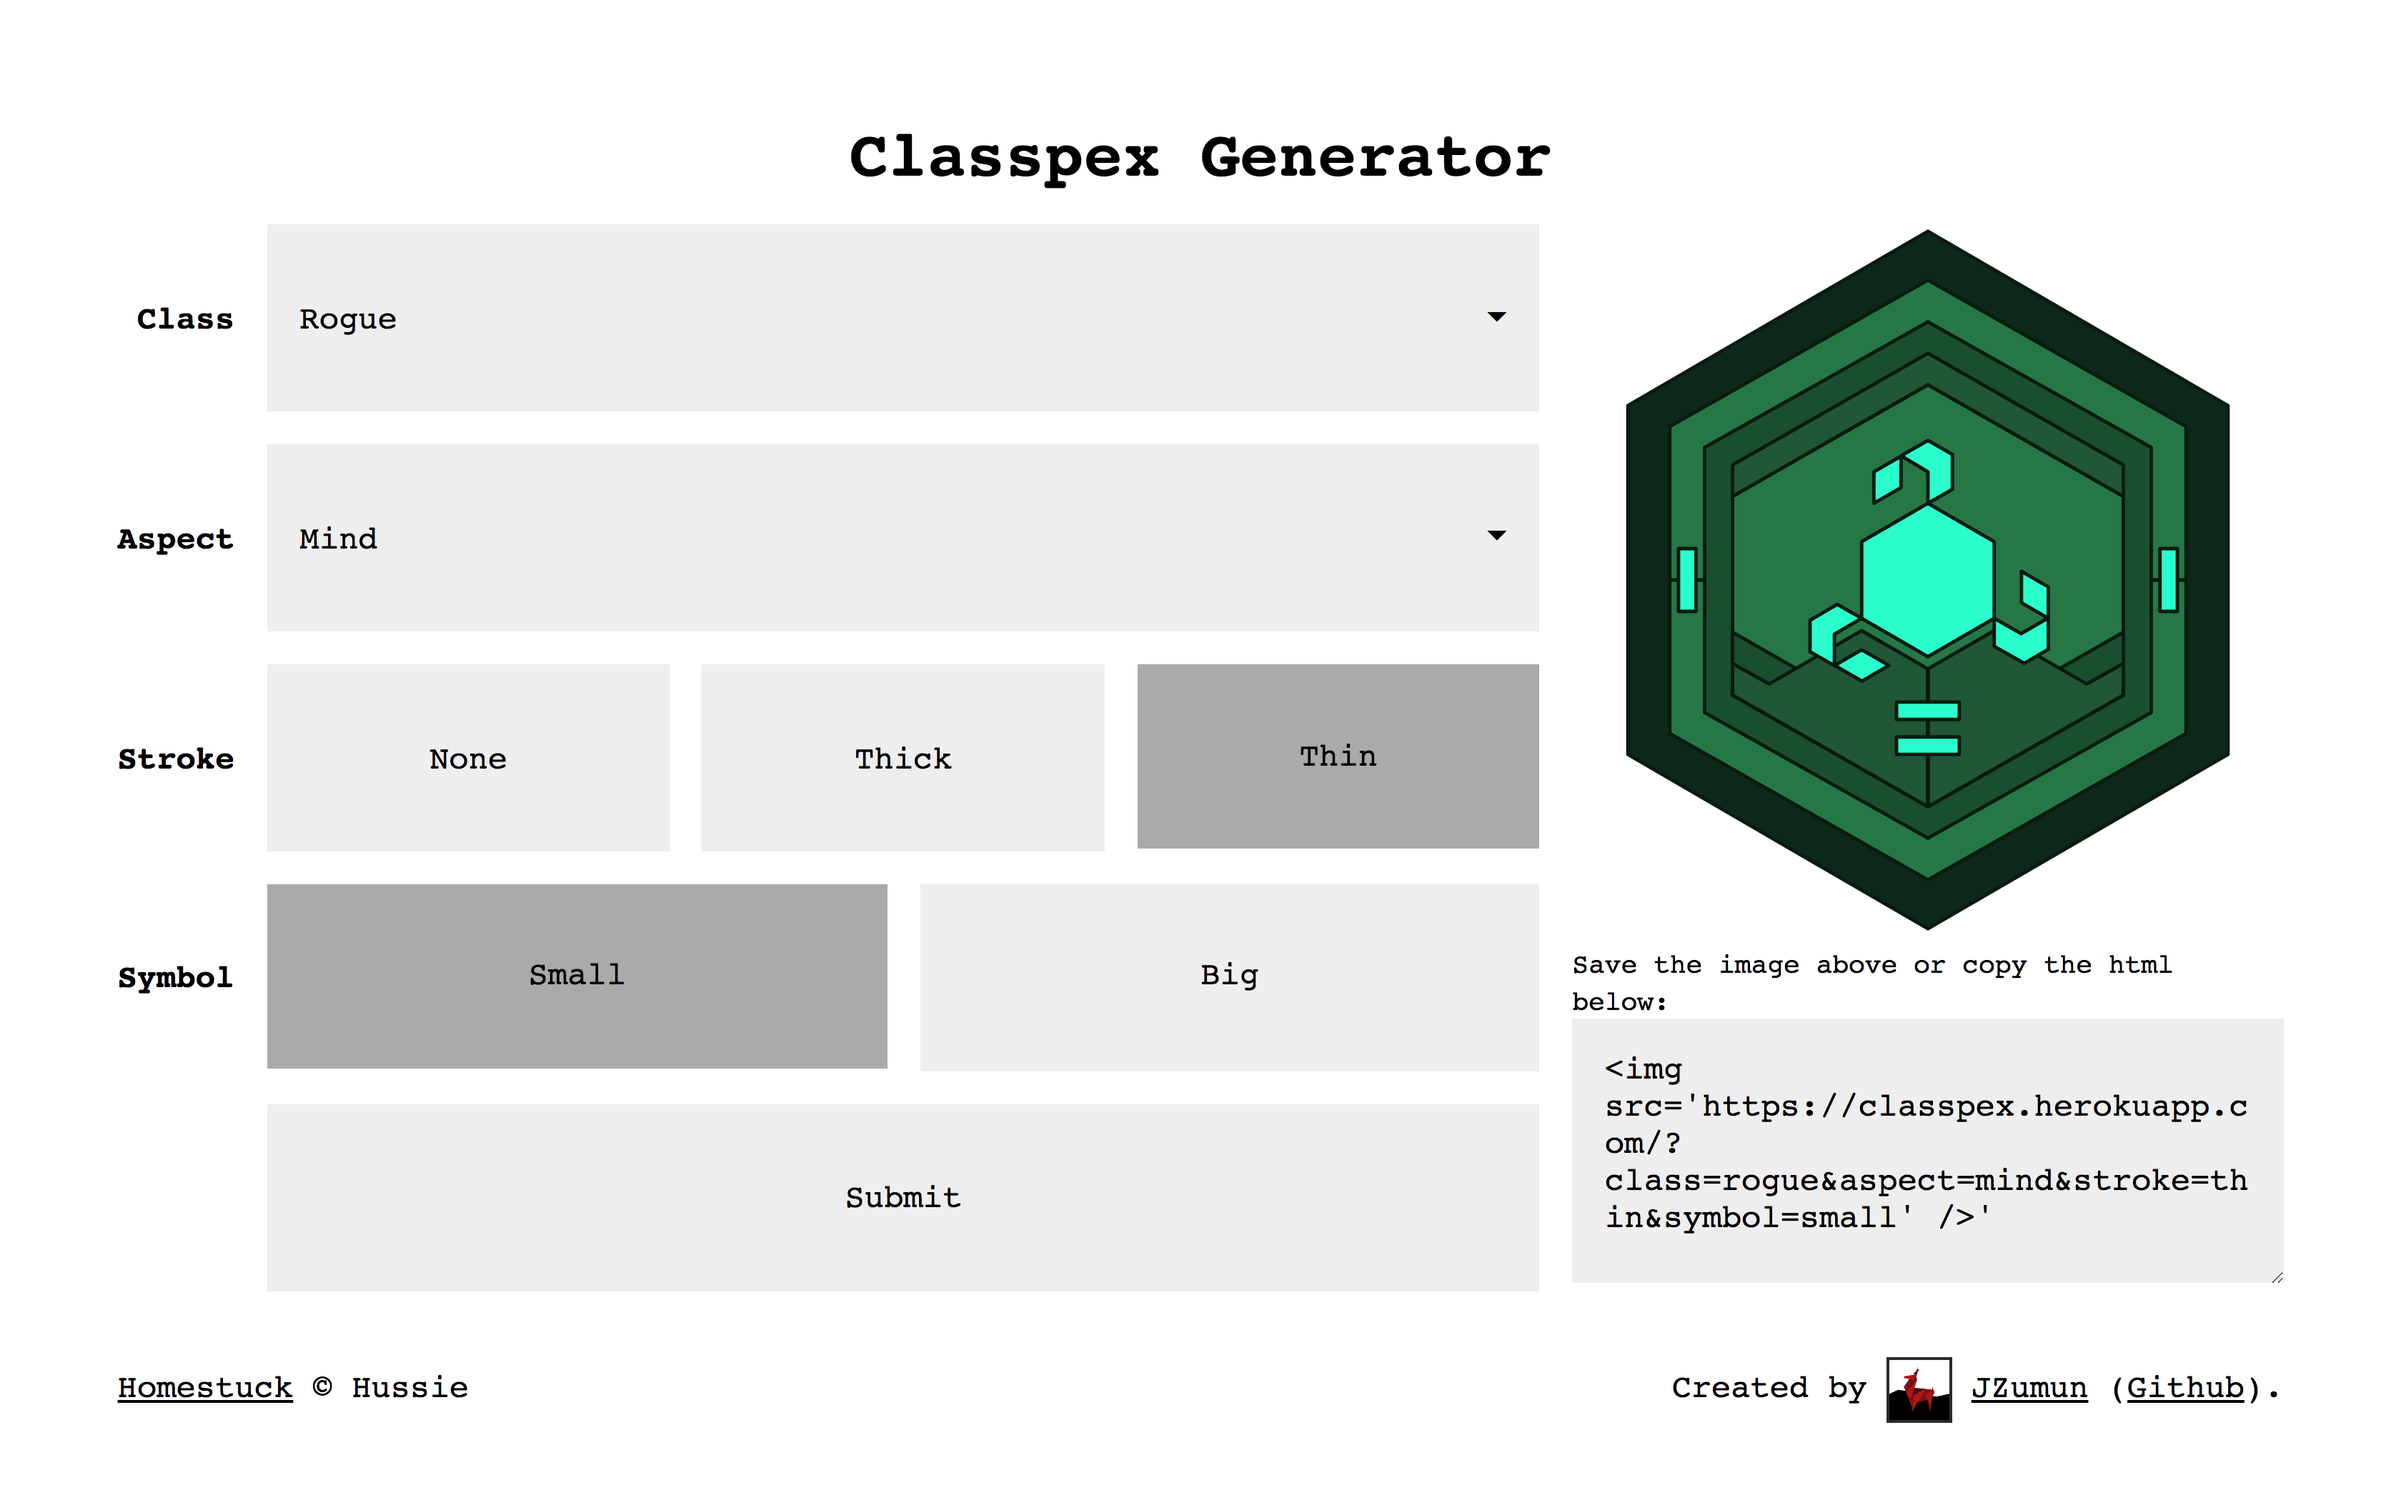
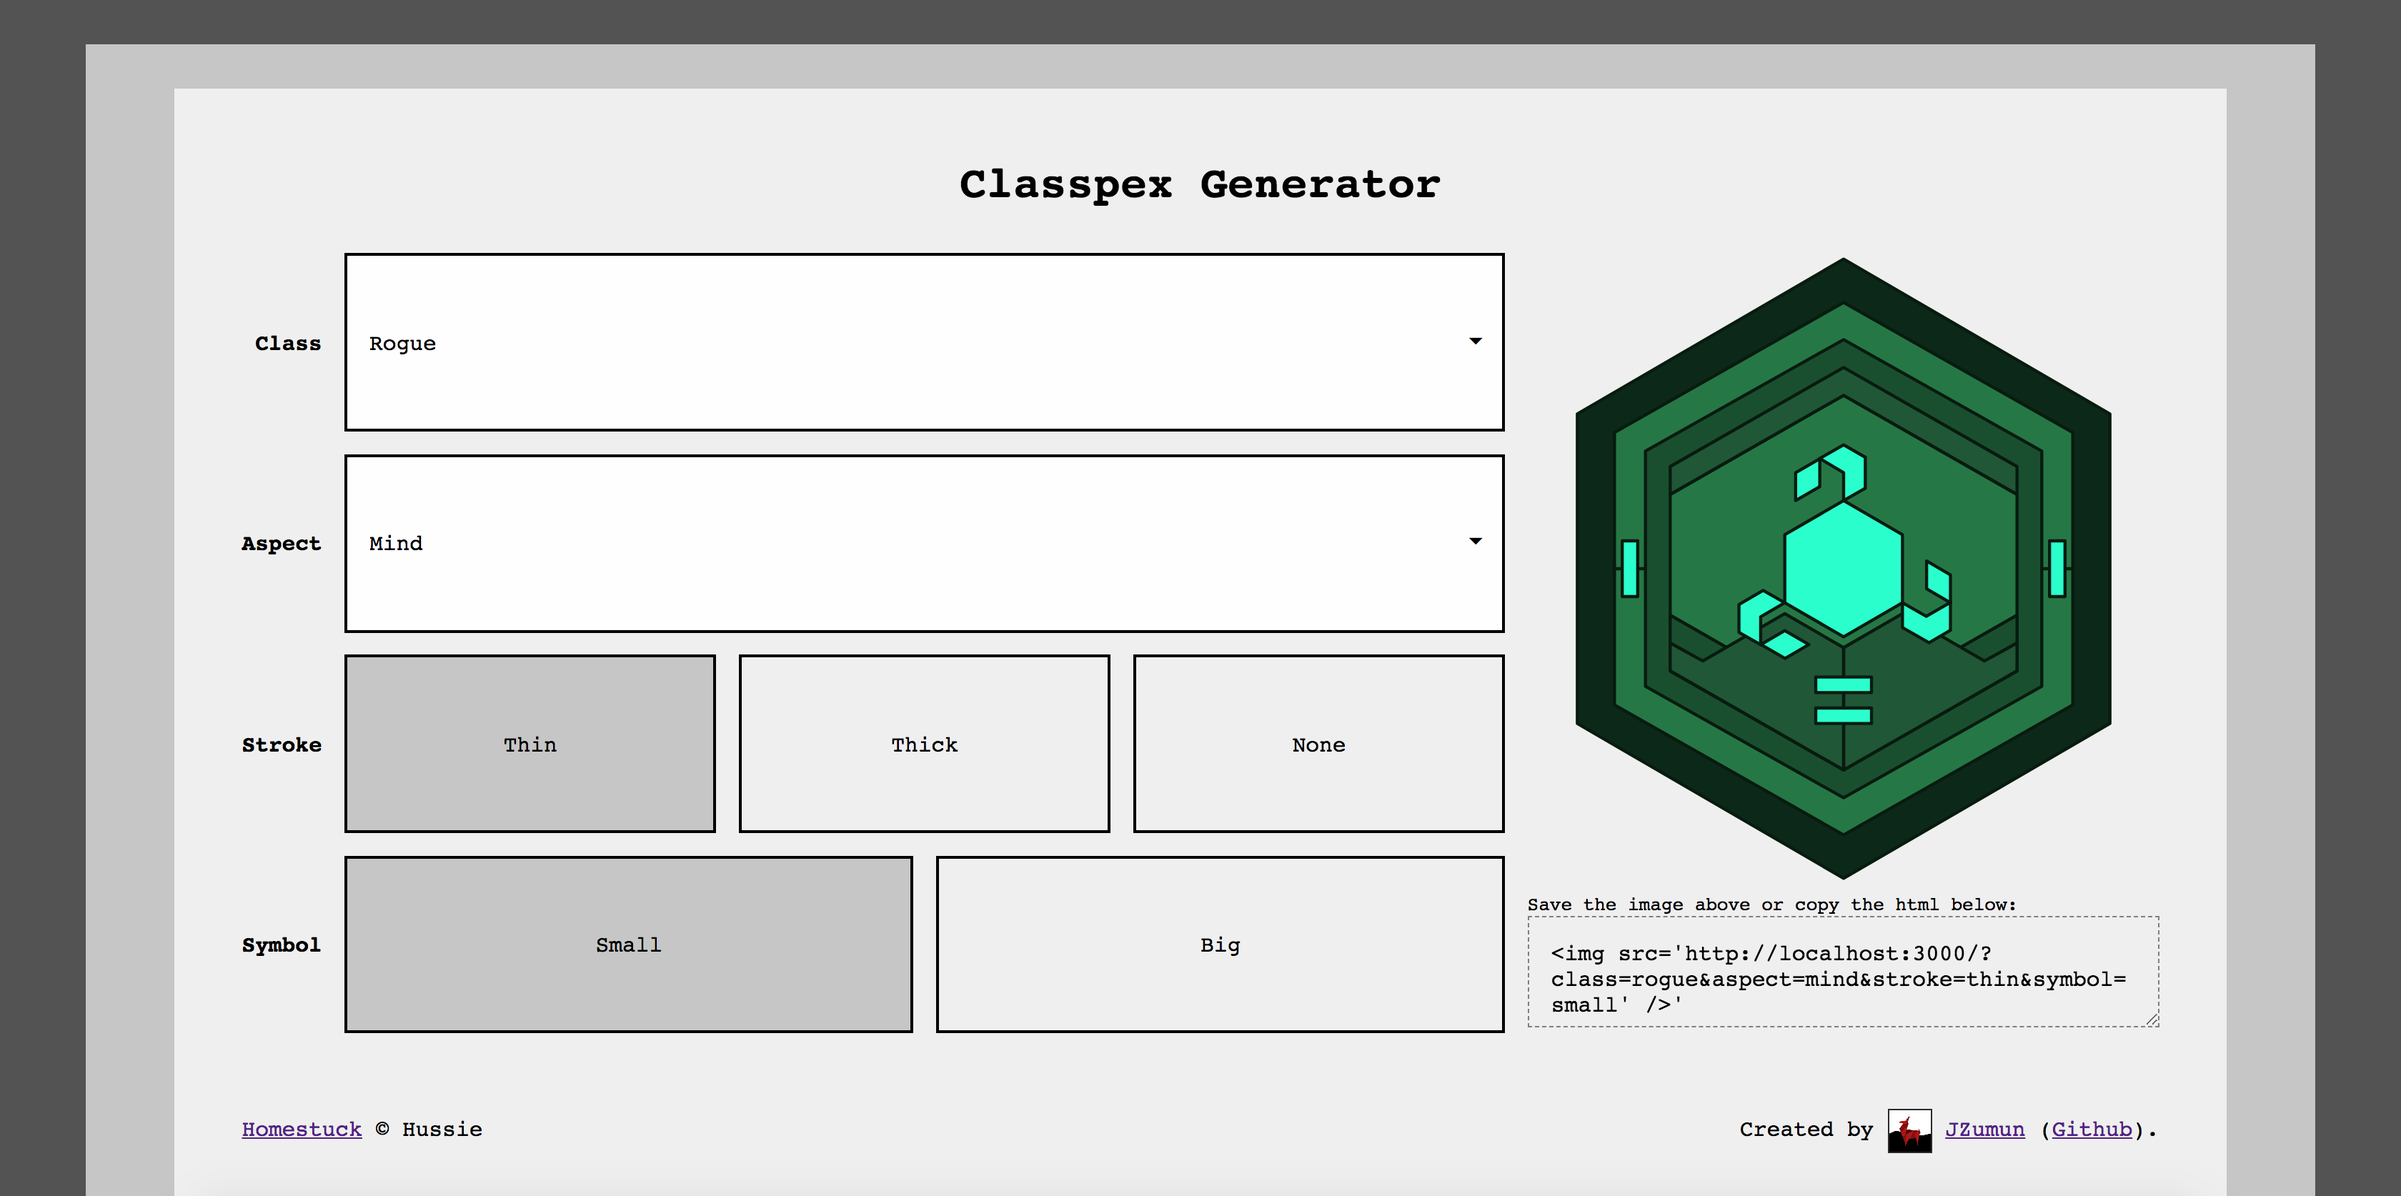
redesign form

diff --git a/public/form/style.css b/public/form/style.css
@@ -3,12 +3,18 @@
 }
 html {
 	box-sizing: border-box;
+	background-color: #535353;
 }
 
 body {
 	font-family: monospace;
 	font-size: 16px;
 	font-size: calc(10px + 4vw/12);
+	background: #c6c6c6;
+}
+
+.container {
+	background: #efefef;
 }
 
 h1 {
@@ -20,20 +26,18 @@ p {
 	margin:0;
 }
 
-a {
-	color: inherit;
-}
 a:hover {
 	opacity: 0.5;
 }
 
-select, input, textarea {
-	border: none;
-	background: #eee;
+select, input {
+	border: 2px solid;
+	background: #fefefe;
 	border-radius: 0;
 	height: 100%;
 	font: inherit;
 	padding: 1em;
+	margin: 0;
 }
 
 select {
@@ -43,6 +47,10 @@ select {
 }
 
 textarea {
+	font: inherit;
+	background: none;
+	padding: 1em;
+	border: 1px dashed gray;
 	min-width: 100%;
 	max-width: 100%;
 	height: 5em;
@@ -79,7 +87,7 @@ textarea {
 }
 
 .radio-button {
-	background: #eee;
+	border: 2px solid black;
 	flex: 1 0 0;
 	position: relative;
 	overflow: hidden;
@@ -94,7 +102,7 @@ textarea {
 	align-items: center;
 }
 .radio-button :checked + span {
-	background: #aaa;
+	background-color: #c6c6c6;
 }
 .radio-button + .radio-button {
 	margin-left: 1em;
@@ -125,65 +133,7 @@ footer p {
 	filter: contrast(200%) grayscale(40%) ;
 }
 
-/* LAYOUT */
-body {
-	display: grid;
-	grid-template-columns: 1fr;
-	grid-gap: 1em;
-	padding: 3em;
-	align-content: center;
-	min-height: 100vh;
-	grid-template-rows: auto 1fr auto;
-}
-#generator {
-	display: grid;
-	grid-gap: 1em;
-	grid-template-columns: 2fr 1fr;
-	grid-template-areas: "form image";
-	align-content: start;
-}
-
-#title {
-	text-align: center;
-}
-#classpex-form {
-	grid-area: form;
-}
-#classpex-container {
-	grid-area: image;
-}
-
-#classpex-form {
-	display: grid;
-	grid-gap: 1em;
-	grid-template-columns: max-content 1fr;
-}
-
-#footer {
-	align-self: end;
-}
-
-.error {
-	text-align: center;
-	overflow: auto;
-}
-.error *+* {
-	margin-top: 1em;
-}
-.error-message {
-	max-width: 100%;
-	overflow: auto;
-	background: #eee;
-	padding: 2em;
-	color: #b51d1d;
-}
-.error-message pre {
-	padding: 0;
-	margin: 0;	
-	display: inline-block;
-	text-align:initial;
-}
-
+/* LOADING SYMBOL */
 .loading {
 	position:relative;
 }
@@ -229,14 +179,92 @@ body {
 	100% { transform: rotate(405deg) }
 }
 
+/* LAYOUT */
+body {
+	max-width: 100em;
+	margin: auto;
+	margin-top: 2em;
+	min-height: 100vh;
+	min-height: calc(100vh - 2em);
+	padding: 2em 4em;
+	padding-bottom: 0;
+	display: grid;
+}
+.container {
+	display: grid;
+	grid-template-columns: 1fr;
+	grid-gap: 2em;
+	padding: 3em;
+	align-content: center;
+	min-height: 100%;
+	grid-template-rows: auto 1fr auto;
+}
+#generator {
+	display: grid;
+	grid-gap: 1em;
+	grid-template-columns: 2fr 1fr;
+	grid-template-areas: "form image";
+	align-content: start;
+}
 
-@media all and (max-width: 550px) {
+#title {
+	text-align: center;
+}
+#classpex-form {
+	grid-area: form;
+}
+#classpex-container {
+	grid-area: image;
+}
+
+#classpex-form {
+	display: grid;
+	grid-gap: 1em;
+	grid-template-columns: max-content 1fr;
+}
+
+#footer {
+	align-self: end;
+}
+
+
+/* ERROR PAGE */
+.error {
+	text-align: center;
+	overflow: auto;
+}
+.error *+* {
+	margin-top: 1em;
+}
+.error-message {
+	max-width: 100%;
+	overflow: auto;
+	border: 1px dashed gray;
+	padding: 2em;
+	color: #b51d1d;
+}
+.error-message pre {
+	padding: 0;
+	margin: 0;	
+	display: inline-block;
+	text-align:initial;
+}
+
+
+@media all and (max-width: 600px) {
 	body {
 		font-size: 1em;
 	}
 	#generator {
 		grid-template-columns: 1fr;
 		grid-template-areas: "image" "form"
+	}
+}
+
+@media all and (max-width: 500px) {
+	body {	
+		padding:0;
+		padding-top: 2em;
 	}
 }
 

diff --git a/public/form/generate.js b/public/form/generate.js
@@ -36,6 +36,6 @@
 	image.addEventListener("error", removeLoading);
 	
 
-	setTextAreaContents();
+	setTextAreaContents("?stroke=thin");
 	
 })();
